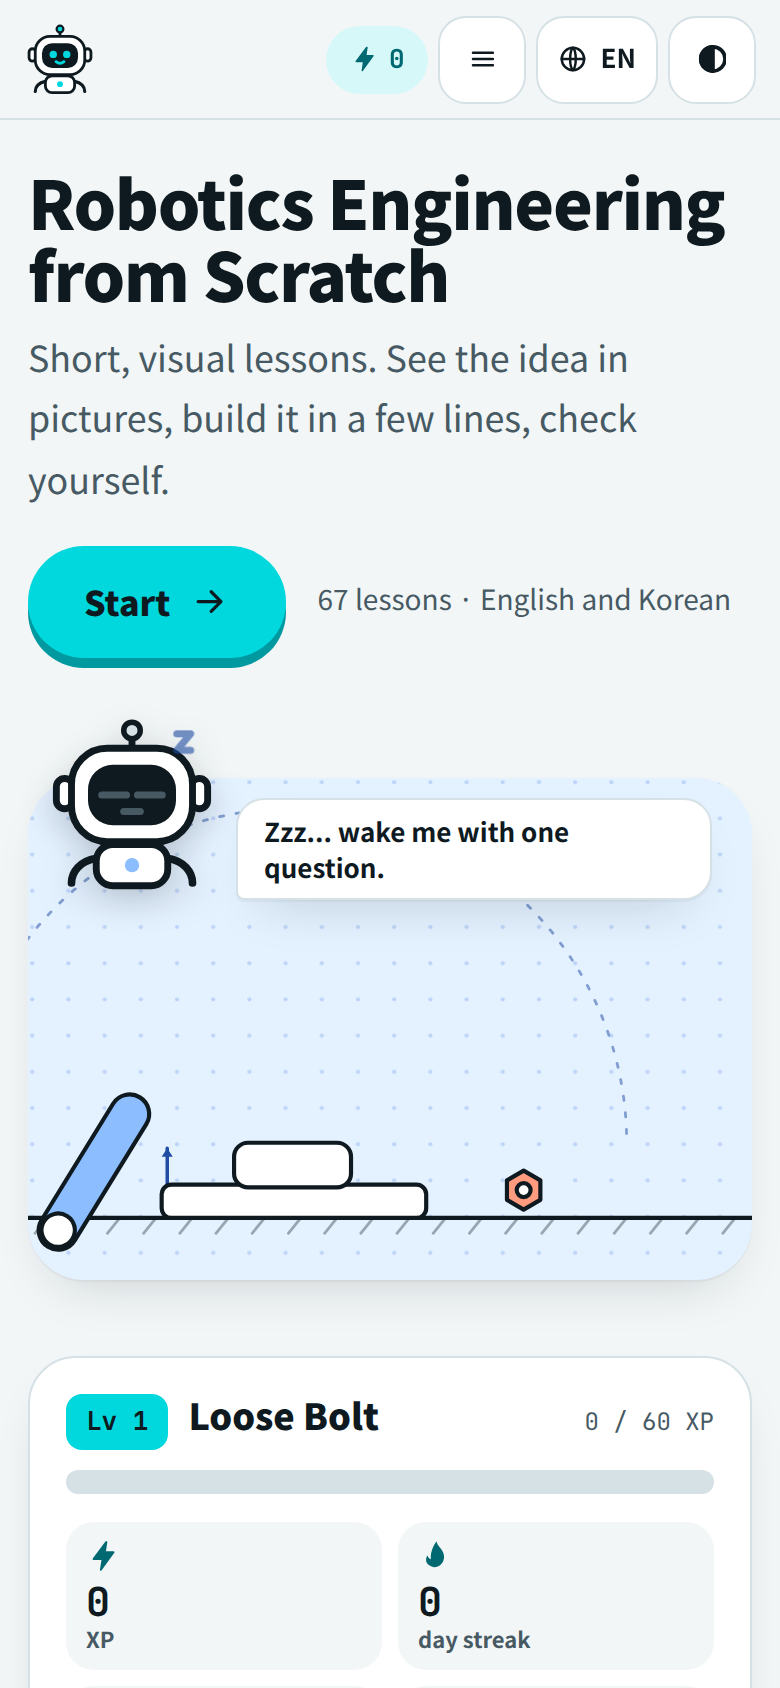
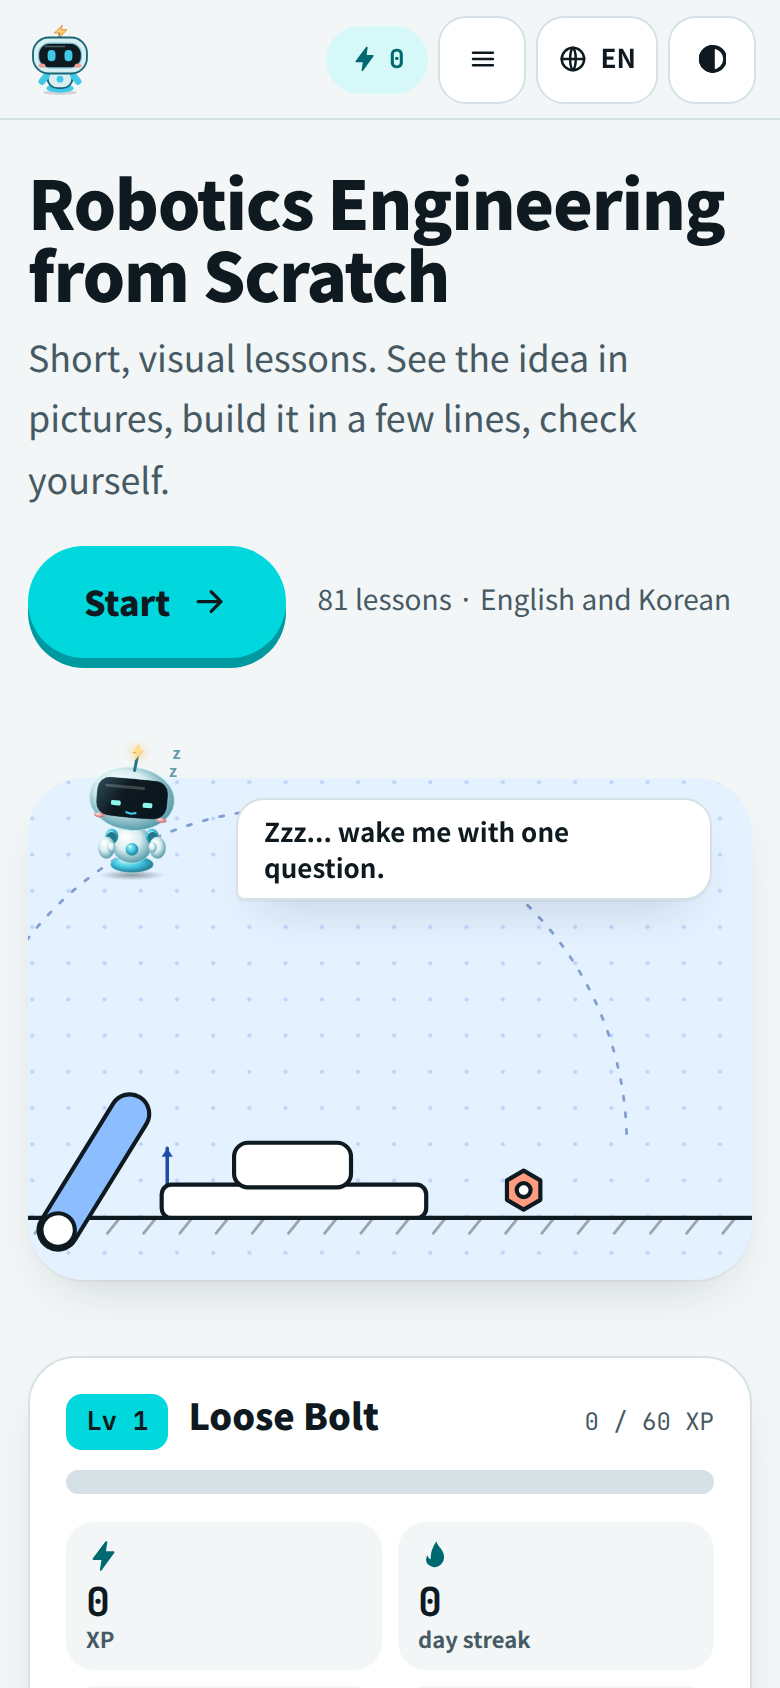
README에 3D 장면 갤러리와 GIF, 새 화면 캡처 추가
- 3D 장면 6개를 한 장으로 묶은 그림과 움직이는 GIF 2개(중력 보상 팔, 보행 모델)
- 폰 화면을 3D Bolt 홈과 "In Plain Words" 레슨으로 새로 촬영
- readme_shots.cjs에 gif3d, gallery3d 모드 추가해 그림을 다시 만들 수 있게 함

diff --git a/README.md b/README.md
@@ -16,6 +16,25 @@ Learn how robots work by building the math and control yourself, in plain numpy,
 
 Every lesson is simulation only. Nothing sends a command to real hardware.
 
+## 3D scenes
+
+Every lesson has a 3D scene of something real: an arm holding itself up, a quadrotor, a robot finding its way back to the start. Drag to orbit it, move a slider, and watch the lesson's law happen.
+
+![Six of the 81 3D scenes: a two-link arm holding against gravity, a Lyapunov bowl, camera calibration views, a quadrotor, a pose graph closing a loop, and action chunks around a post](docs/img/3d-gallery.png)
+
+<table>
+<tr>
+<td width="50%"><img src="docs/img/motion-3d-gravity.gif" alt="A two-link arm changes pose while the holding torque at each joint changes with it"></td>
+<td width="50%"><img src="docs/img/motion-3d-lipm.gif" alt="An inverted pendulum is pushed and its support point and capture point move"></td>
+</tr>
+<tr>
+<td><em>Lesson 03-02: the torque needed to hold the arm still.</em></td>
+<td><em>Lesson 10-01: push, support point and capture point.</em></td>
+</tr>
+</table>
+
+Each lesson also has a 2D animation, and some have a toy you can drag.
+
 <table>
 <tr>
 <td width="50%"><img src="docs/img/motion-scene.gif" alt="A damped pendulum arm settling while its angle trace shrinks into the target band"></td>
@@ -27,18 +46,24 @@ Every lesson is simulation only. Nothing sends a command to real hardware.
 </tr>
 </table>
 
+## On a phone and in the terminal
+
 <table>
 <tr>
-<td width="25%"><img src="docs/img/index-phone.png" alt="The course home page on a phone: Start button, mascot, level and XP"></td>
-<td width="25%"><img src="docs/img/03-02-gravity-compensation-phone.png" alt="A lesson on a phone: data figures with captions, then the Build It code"></td>
-<td width="50%"><img src="docs/img/cli-home.png" alt="The robo terminal home screen listing the 17 phases and the next lesson"></td>
+<td width="33%"><img src="docs/img/index-phone.png" alt="The course home page on a phone: Start button, Bolt the 3D mascot, level and XP"></td>
+<td width="33%"><img src="docs/img/plain-words-phone.png" alt="A lesson on a phone: title, a one-line idea, and the In Plain Words box with a cafeteria tray analogy"></td>
+<td width="33%"><img src="docs/img/03-02-gravity-compensation-phone.png" alt="A lesson on a phone: data figures with captions, then the Build It code"></td>
 </tr>
 <tr>
-<td><em>Website home on a phone.</em></td>
+<td><em>Home, with Bolt.</em></td>
+<td><em>Every lesson starts in plain words.</em></td>
 <td><em>Figures first, then a few lines of code.</em></td>
-<td><em><code>robo</code> in the terminal, same lessons and progress.</em></td>
 </tr>
 </table>
+
+![The robo terminal home screen listing the 17 phases and the next lesson](docs/img/cli-home.png)
+
+*`robo` in the terminal: same lessons and progress.*
 
 ## Start
 
@@ -74,4 +99,4 @@ Forks and pull requests are welcome, from a typo to a whole new lesson. Run the 
 
 MIT, see [LICENSE](LICENSE). The lesson shape follows [rohitg00/ai-engineering-from-scratch](https://github.com/rohitg00/ai-engineering-from-scratch) (MIT). The text, code and figures here are original. The animations use GSAP 3.15.0, which keeps its own terms in `scripts/vendor/GSAP-LICENSE.txt`.
 
-To regenerate the pictures above, run `python3 scripts/readme_roadmap.py`, `node scripts/render_excalidraw.cjs docs/img/roadmap.excalidraw` and `node scripts/readme_shots.cjs site|cli|gif` after building the site.
+To regenerate the pictures above, run `python3 scripts/readme_roadmap.py`, `node scripts/render_excalidraw.cjs docs/img/roadmap.excalidraw` and `node scripts/readme_shots.cjs site|cli|gif|gif3d|gallery3d` after building the site.
